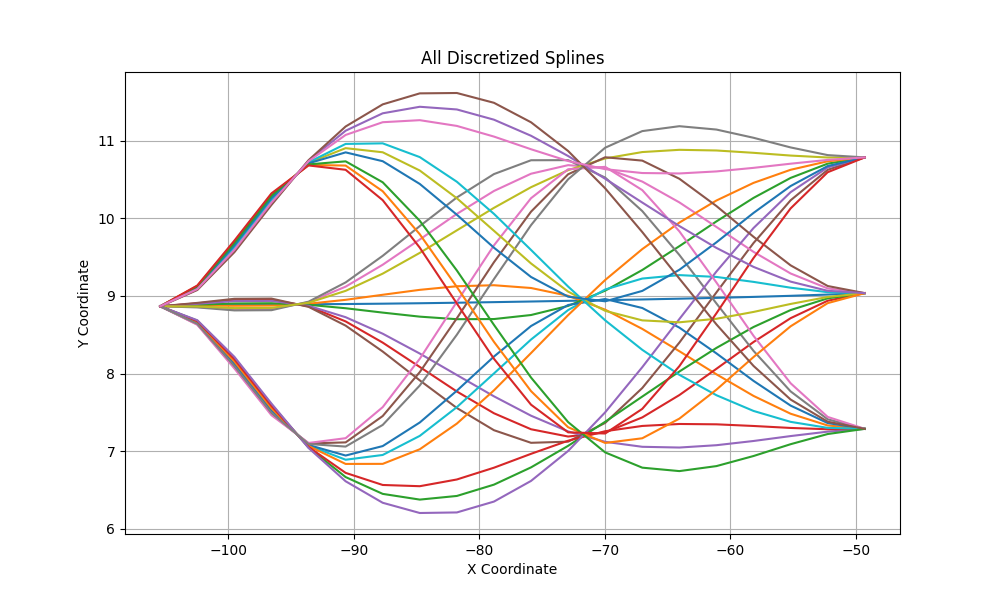
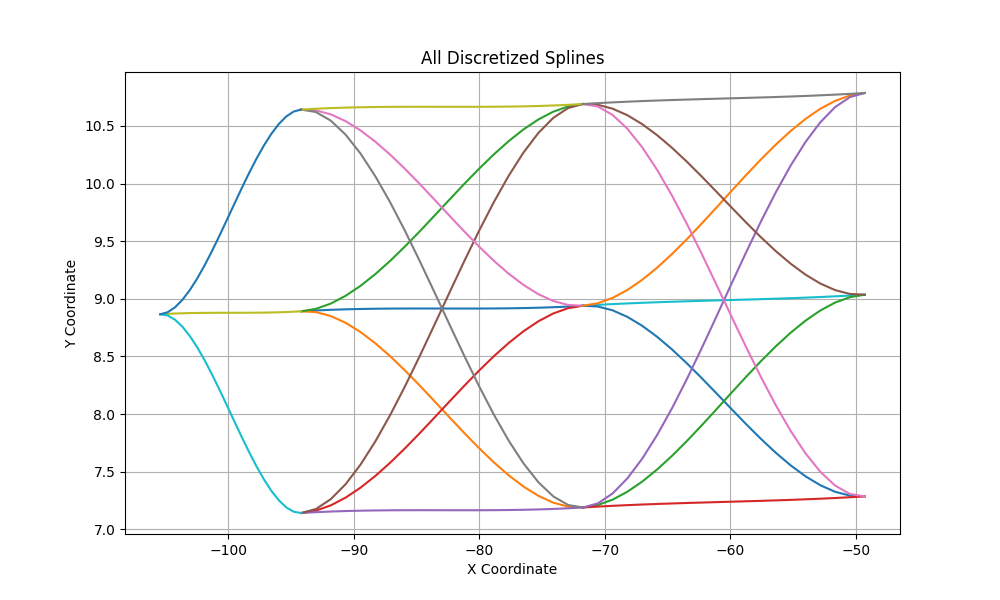
splines come piacciono a me, bisogna aggiungere seconda lane poi siamo nel chill totale daje

diff --git a/src/pdm4ar/exercises/ex12/planner.py b/src/pdm4ar/exercises/ex12/planner.py
@@ -110,12 +110,19 @@ class Planner:
         all_discretized_splines = []
 
         # Generate Cartesian product of all combinations of center, left, and right points
-        point_combinations = product(*sampled_points_list)  # Cartesian product
-        i = 0
+        # point_combinations = product(*sampled_points_list)  # Cartesian product
         ego_position = np.array([self.sim_obs.players["Ego"].state.x, self.sim_obs.players["Ego"].state.y])
+
+        point_combinations = []
+        for i in range(len(sampled_points_list) - 1):
+            layer_combinations = list(product(sampled_points_list[i], sampled_points_list[i + 1]))
+            point_combinations += layer_combinations
+        for i, item in enumerate(sampled_points_list[0]):
+            point_combinations.append((ego_position, item))
+        # print("Point combinations: ", point_combinations)
+        i = 0
         for combination in point_combinations:
-            extended_combination = [ego_position] + list(combination)
-            spline_points = self.get_discretized_spline(extended_combination, bc_value_init, bc_value_end)
+            spline_points = self.get_discretized_spline(combination, bc_value_init, bc_value_end)
             all_discretized_splines.append(spline_points)
             i += 1
         print("Number of splines: ", i)

diff --git a/src/pdm4ar/exercises/ex12/agent.py b/src/pdm4ar/exercises/ex12/agent.py
@@ -88,7 +88,7 @@ class Pdm4arAgent(Agent):
             )
             print("Sampled points: ", sampled_points)
             print("Number of sampled points: ", len(sampled_points[0]) * len(sampled_points))
-            print([sim_obs.players["Ego"].state.x, sim_obs.players["Ego"].state.y])
+            print("Position: ", sim_obs.players["Ego"].state.x, sim_obs.players["Ego"].state.y)
             print(sampled_points[0][0][0], sampled_points[0][0][1])
             print(sampled_points[0][1][0], sampled_points[0][1][1])
             print(sampled_points[0][2][0], sampled_points[0][2][1])
